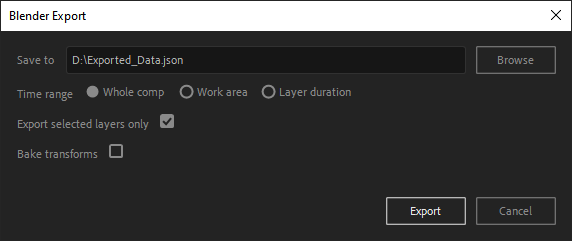
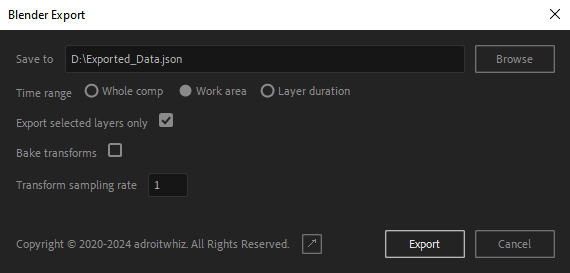
Keyframe supersampling

diff --git a/Export Composition Data to JSON.jsx b/Export Composition Data to JSON.jsx
@@ -844,7 +844,7 @@ function writeSettingsFile(settings, version) {
 }
 
 
-    var fileVersion = 2;
+    var fileVersion = 3;
     var settingsVersion = '0.2';
     var settingsFilePath = Folder.userData.fullName + '/cam-export-settings.json';
 
@@ -908,6 +908,16 @@ function writeSettingsFile(settings, version) {
                             enabled: opts.bakeTransforms
                         })
                     }),
+                    frameSuperSampling: c.Group({
+                        label: c.StaticText({
+                            text: 'Transform sampling rate',
+                            helpTip: 'Number of keyframes to generate per frame, for baked transforms and those which cannot be exported directly. Useful for e.g. very fast "wiggle" expressions where you want to capture all the motion blur.'
+                        }),
+                        value: c.EditText({
+                            text: opts.frameSuperSampling,
+                            minimumSize: [40, 0]
+                        })
+                    })
                 }),
                 separator: c.Group({ preferredSize: ['', 3] }),
                 buttons: c.Group({
@@ -950,6 +960,7 @@ function writeSettingsFile(settings, version) {
             },
             selectedLayersOnly: window.settings.selectedLayersOnly,
             bakeTransforms: window.settings.bakeTransforms,
+            frameSuperSampling: window.settings.frameSuperSampling,
             plugButton: window.buttons.plug.link,
             exportButton: window.buttons.doExport,
             cancelButton: window.buttons.cancel
@@ -993,14 +1004,22 @@ function writeSettingsFile(settings, version) {
                         break;
                     }
             }
+            var frameSuperSampling = parseInt(controls.frameSuperSampling.value.text);
+            if (isNaN(frameSuperSampling) || frameSuperSampling < 1 || frameSuperSampling > 128) {
+                frameSuperSampling = 1;
+            }
             return {
                 savePath: controls.savePath.text,
                 timeRange: timeRange,
                 selectedLayersOnly: controls.selectedLayersOnly.value.value,
+                frameSuperSampling: frameSuperSampling,
                 bakeTransforms: controls.bakeTransforms.value.value
             };
         }
 
+        /**
+         * Apply previously-saved settings to the newly-created dialog
+         */
         function applySettings(settings) {
             if (!settings) return;
             controls.savePath.text = settings.savePath;
@@ -1009,6 +1028,9 @@ function writeSettingsFile(settings, version) {
                 controls.timeRange[button].value = button === settings.timeRange;
             }
             controls.bakeTransforms.value.value = settings.bakeTransforms;
+            if (typeof settings.frameSuperSampling === 'number') {
+                controls.frameSuperSampling.value.text = settings.frameSuperSampling;
+            }
         }
 
         controls.plugButton.onClick = function() {
@@ -1158,7 +1180,8 @@ function writeSettingsFile(settings, version) {
                 })
             },
             {
-                selectionExists: activeComp.selectedLayers.length > 0
+                selectionExists: activeComp.selectedLayers.length > 0,
+                frameSuperSampling: 1
             }
         );
         d.window.show();
@@ -1308,8 +1331,9 @@ function writeSettingsFile(settings, version) {
 
             var keyframes = [];
 
-            for (var i = startFrame; i < endFrame; i++) {
-                var time =  i / activeComp.frameRate;
+            for (var i = 0, n = (endFrame - startFrame) * settings.frameSuperSampling; i < n; i++) {
+                var frame = (i / settings.frameSuperSampling) + startFrame;
+                var time =  frame / activeComp.frameRate;
                 var point1Val = evalPoint1.property(1).valueAtTime(time, false /* preExpression */);
                 var point2Val = evalPoint2.property(1).valueAtTime(time, false /* preExpression */);
                 var point3Val = evalPoint3.property(1).valueAtTime(time, false /* preExpression */);
@@ -1325,7 +1349,8 @@ function writeSettingsFile(settings, version) {
 
             return {
                 startFrame: startFrame,
-                keyframes: keyframes
+                keyframes: keyframes,
+                supersampling: settings.frameSuperSampling
             }
         }
 
@@ -1409,12 +1434,16 @@ function writeSettingsFile(settings, version) {
                         exportedProp.channels[i + channelOffset].keyframes = [];
                     }
 
-                    for (var i = startFrame; i < endFrame; i++) {
-                        var time =  i / activeComp.frameRate;
+                    for (var i = 0, n = (endFrame - startFrame) * settings.frameSuperSampling; i < n; i++) {
+                        var frame = (i / settings.frameSuperSampling) + startFrame;
+                        var time =  frame / activeComp.frameRate;
                         var propVal = prop.valueAtTime(time, false /* preExpression */);
                         for (var j = 0; j < numDimensions; j++) {
                             exportedProp.channels[j + channelOffset].keyframes.push(Array.isArray(propVal) ? propVal[j] : propVal);
                         }
+                    }
+                    for (var j = 0; j < numDimensions; j++) {
+                        exportedProp.channels[j + channelOffset].supersampling = settings.frameSuperSampling;
                     }
                 }
             } else {

diff --git a/export-comp-from-ae/export-comp-from-ae.jsx b/export-comp-from-ae/export-comp-from-ae.jsx
@@ -1,7 +1,7 @@
 {
     // @include 'lib/util.js'
 
-    var fileVersion = 2;
+    var fileVersion = 3;
     var settingsVersion = '0.2';
     var settingsFilePath = Folder.userData.fullName + '/cam-export-settings.json';
 
@@ -65,6 +65,16 @@
                             enabled: opts.bakeTransforms
                         })
                     }),
+                    frameSuperSampling: c.Group({
+                        label: c.StaticText({
+                            text: 'Transform sampling rate',
+                            helpTip: 'Number of keyframes to generate per frame, for baked transforms and those which cannot be exported directly. Useful for e.g. very fast "wiggle" expressions where you want to capture all the motion blur.'
+                        }),
+                        value: c.EditText({
+                            text: opts.frameSuperSampling,
+                            minimumSize: [40, 0]
+                        })
+                    })
                 }),
                 separator: c.Group({ preferredSize: ['', 3] }),
                 buttons: c.Group({
@@ -107,6 +117,7 @@
             },
             selectedLayersOnly: window.settings.selectedLayersOnly,
             bakeTransforms: window.settings.bakeTransforms,
+            frameSuperSampling: window.settings.frameSuperSampling,
             plugButton: window.buttons.plug.link,
             exportButton: window.buttons.doExport,
             cancelButton: window.buttons.cancel
@@ -150,14 +161,22 @@
                         break;
                     }
             }
+            var frameSuperSampling = parseInt(controls.frameSuperSampling.value.text);
+            if (isNaN(frameSuperSampling) || frameSuperSampling < 1 || frameSuperSampling > 128) {
+                frameSuperSampling = 1;
+            }
             return {
                 savePath: controls.savePath.text,
                 timeRange: timeRange,
                 selectedLayersOnly: controls.selectedLayersOnly.value.value,
+                frameSuperSampling: frameSuperSampling,
                 bakeTransforms: controls.bakeTransforms.value.value
             };
         }
 
+        /**
+         * Apply previously-saved settings to the newly-created dialog
+         */
         function applySettings(settings) {
             if (!settings) return;
             controls.savePath.text = settings.savePath;
@@ -166,6 +185,9 @@
                 controls.timeRange[button].value = button === settings.timeRange;
             }
             controls.bakeTransforms.value.value = settings.bakeTransforms;
+            if (typeof settings.frameSuperSampling === 'number') {
+                controls.frameSuperSampling.value.text = settings.frameSuperSampling;
+            }
         }
 
         controls.plugButton.onClick = function() {
@@ -315,7 +337,8 @@
                 })
             },
             {
-                selectionExists: activeComp.selectedLayers.length > 0
+                selectionExists: activeComp.selectedLayers.length > 0,
+                frameSuperSampling: 1
             }
         );
         d.window.show();
@@ -465,8 +488,9 @@
 
             var keyframes = [];
 
-            for (var i = startFrame; i < endFrame; i++) {
-                var time =  i / activeComp.frameRate;
+            for (var i = 0, n = (endFrame - startFrame) * settings.frameSuperSampling; i < n; i++) {
+                var frame = (i / settings.frameSuperSampling) + startFrame;
+                var time =  frame / activeComp.frameRate;
                 var point1Val = evalPoint1.property(1).valueAtTime(time, false /* preExpression */);
                 var point2Val = evalPoint2.property(1).valueAtTime(time, false /* preExpression */);
                 var point3Val = evalPoint3.property(1).valueAtTime(time, false /* preExpression */);
@@ -482,7 +506,8 @@
 
             return {
                 startFrame: startFrame,
-                keyframes: keyframes
+                keyframes: keyframes,
+                supersampling: settings.frameSuperSampling
             }
         }
 
@@ -566,12 +591,16 @@
                         exportedProp.channels[i + channelOffset].keyframes = [];
                     }
 
-                    for (var i = startFrame; i < endFrame; i++) {
-                        var time =  i / activeComp.frameRate;
+                    for (var i = 0, n = (endFrame - startFrame) * settings.frameSuperSampling; i < n; i++) {
+                        var frame = (i / settings.frameSuperSampling) + startFrame;
+                        var time =  frame / activeComp.frameRate;
                         var propVal = prop.valueAtTime(time, false /* preExpression */);
                         for (var j = 0; j < numDimensions; j++) {
                             exportedProp.channels[j + channelOffset].keyframes.push(Array.isArray(propVal) ? propVal[j] : propVal);
                         }
+                    }
+                    for (var j = 0; j < numDimensions; j++) {
+                        exportedProp.channels[j + channelOffset].supersampling = settings.frameSuperSampling;
                     }
                 }
             } else {

diff --git a/import-comp-to-blender.py b/import-comp-to-blender.py
@@ -163,6 +163,7 @@ class ImportAEComp(bpy.types.Operator, ImportHelper):
         start_frame: int,
         comp_framerate: float,
         desired_framerate: float,
+        supersampling_rate: int,
         mul = 1.0,
         add = 0.0):
         '''Import a given keyframe channel in "calculated"/baked format onto a given F-curve.
@@ -173,13 +174,14 @@ class ImportAEComp(bpy.types.Operator, ImportHelper):
             start_frame (int): The frame number at which the keyframe data starts.
             comp_framerate (float): The comp's framerate.
             desired_framerate (float): The desired framerate.
+            supersampling_rate (int): Multiplier for the framerate; this many keyframes will be created per frame.
             mul (int, optional): Multiply all keyframes by this value. Defaults to 1.
             add (int, optional): Add this value to all keyframes. Defaults to 0.
         '''
         fcurve.keyframe_points.add(len(keyframes))
         for i, keyframe in enumerate(keyframes):
             k = fcurve.keyframe_points[i]
-            k.co_ui = [((i + start_frame) * desired_framerate) / comp_framerate, keyframe * mul + add]
+            k.co_ui = [(((i / supersampling_rate) + start_frame) * desired_framerate) / comp_framerate, keyframe * mul + add]
             k.interpolation = 'LINEAR'
 
     def ensure_action_exists(self, obj: 'bpy.types.Object'):
@@ -233,6 +235,7 @@ class ImportAEComp(bpy.types.Operator, ImportHelper):
                     prop_data['startFrame'],
                     comp_framerate,
                     desired_framerate,
+                    prop_data['supersampling'],
                     mul,
                     add
                 )
@@ -274,6 +277,7 @@ class ImportAEComp(bpy.types.Operator, ImportHelper):
 
         keyframes = data['keyframes']
         start_frame = data['startFrame']
+        supersampling_rate = data['supersampling']
 
         for fcurve in chain(loc_fcurves, rot_fcurves, scale_fcurves):
             fcurve.keyframe_points.add(len(keyframes))
@@ -295,7 +299,7 @@ class ImportAEComp(bpy.types.Operator, ImportHelper):
                 rot.make_compatible(prev_rot)
             prev_rot = rot
 
-            kx = ((i + start_frame) * desired_framerate) / comp_framerate
+            kx = (((i / supersampling_rate) + start_frame) * desired_framerate) / comp_framerate
             for j in range(3):
                 k = loc_fcurves[j].keyframe_points[i]
                 k.co_ui = [kx, loc[j]]
@@ -352,8 +356,8 @@ class ImportAEComp(bpy.types.Operator, ImportHelper):
             data = json.load(f)
 
         fileVersion = data.get('version', 0)
-        if fileVersion != 2:
-            if fileVersion > 2:
+        if fileVersion < 2 or fileVersion > 3:
+            if fileVersion > 3:
                 warning = 'This file is too new. Update this add-on.'
             else:
                 warning = 'This file is too old. Re-export it using a newer version of this add-on.'

diff --git a/README.md b/README.md
@@ -44,6 +44,9 @@ When checked, this ensures that only the layers you select will be exported. If 
 #### Bake transforms
 When checked, all layer transforms will be "baked" in After Effects instead of being imported keyframes-and-all into Blender. In case of a bug in the importer, complicated scenarios (like a 3D layer parented to a 2D layer parented to a 3D layer), or unimplemented features (like Auto-Orient), this may be necessary.
 
+#### Transform sampling rate
+For those properties with keyframes that cannot be directly imported and must be "baked" (see above), this setting controls how many times they will be sampled per frame. The default setting of 1 is usually fine, but if there's some extremely fast motion (most common when simulating camera shake with a "wiggle" expression), and/or you want accurate motion blur trails, you can increase this.
+
 ## Installation / Usage (Blender)
 
 To install the Blender add-on, [download](https://github.com/adroitwhiz/after-effects-to-blender-export/raw/master/import-comp-to-blender.py), install, and then enable it via the add-on preferences:
